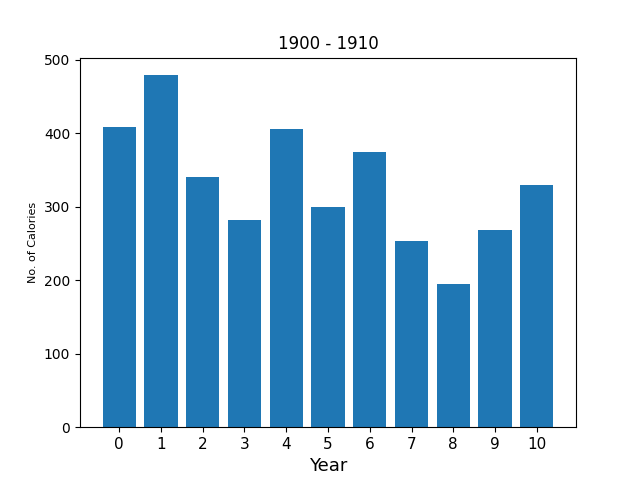
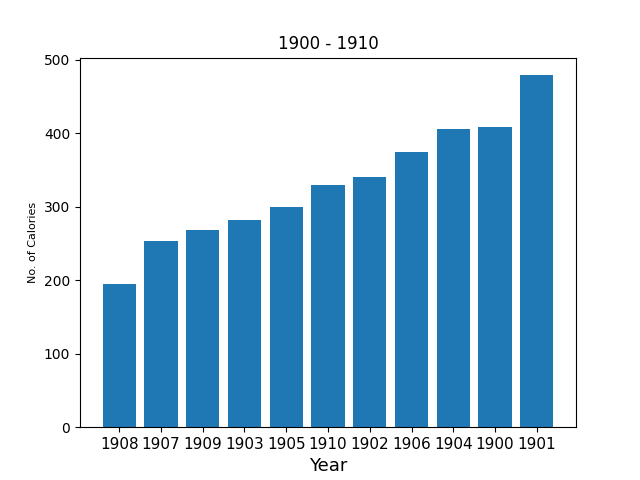
ee

Changed region(s): [[0.4062, 0.1562, 0.875, 0.5938], [0.1562, 0.1562, 0.3438, 0.5938], [0.1562, 0.9062, 0.875, 0.9375]]

diff --git a/dataExcel.py b/dataExcel.py
@@ -6,7 +6,7 @@ import matplotlib.pyplot as plt
 data = pd.read_excel("dataNew.xls")
 data1 = data["Period"].str.split(" ", n = 1, expand = True)
 newData = data.assign(Years = data1[1])
-newData["Years"] = newData["Years"].astype(int)
+newData["Years"] = newData["Years"].astype(str)
 newData.index = newData["Years"]
 """
 moveColumn = newData.pop("Years")
@@ -14,20 +14,20 @@ newData.insert(0, 'Years', moveColumn) """
 del newData["Period"]
 print(newData)
 # newData1 = newData[(newData["Years"] >= 1900) & (newData["Years"] <= 1910)]
-newData1 = newData.loc[(newData.Years >= 1900) & (newData.Years <= 1910)]
-newData2 = newData.loc[(newData.Years >= 1911) & (newData.Years <= 1920)]
-newData3 = newData.loc[(newData.Years >= 1921) & (newData.Years <= 1930)] 
+newData1 = newData.loc[(newData.Years >= str(1900)) & (newData.Years <= str(1910))]
+newData2 = newData.loc[(newData.Years >= str(1911)) & (newData.Years <= str(1920))]
+newData3 = newData.loc[(newData.Years >= str(1921)) & (newData.Years <= str(1930))] 
 
 def first():
     print(newData1.head(3))
     print("First:")
     print("Total: ", round(newData1["Calories"].sum(), 2))
     print("Mean: ", round(newData1["Calories"].mean(), 2))
-    y = newData1['Calories']
+    y = newData1['Calories'].sort_values(ascending= True)
     x = np.arange(len(y.index))
     plt.xlabel('Year', fontsize=13)
     plt.ylabel('No. of Calories', fontsize=8)
-    plt.xticks(y.index, x, fontsize=11, rotation=0)
+    plt.xticks(x, y.index, fontsize=11, rotation=0)
     plt.title('1900 - 1910')
     plt.bar(y.index, y.values)
     plt.savefig("1900 - 1910")
